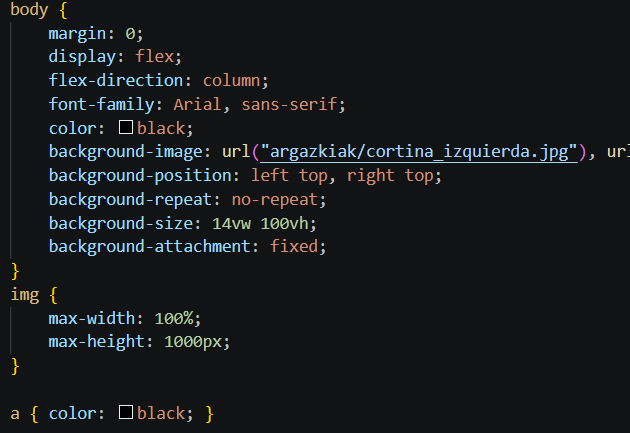
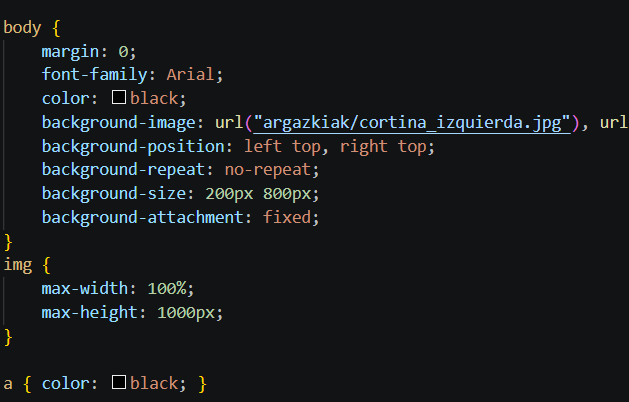
cambios

Changed region(s): [[0.0, 0.0, 1.0, 0.597], [0.0, 0.1194, 0.3625, 0.8657], [0.0, 0.9254, 0.3323, 0.9851]]

diff --git a/HTML_4_taldea/datu-base.html b/HTML_4_taldea/datu-base.html
@@ -72,8 +72,7 @@
                         <li>KAPITULUAK (ID-Kapitulua, ID-Denboraldiak, Izena)</li>
                     </ul>
 
-            <div 
-                ></div><h2> 4. normalizazioa</h2>
+                <h2> 4. normalizazioa</h2>
                 <h3>1. HARPIDETZA (ID-Harpidetza, Hasiera_data, Amaiera_data)</h3>
                 <ul>
                     <li>1FN? Bai, ez dago errepikapenik. Datuak atomikoak dira.</li>
@@ -243,7 +242,6 @@
                     </ul>
                     <li>3FN? Bai, “Guztiok” dependentzia funtzional transitiboa ez dagoelako.
                 </ul>
-            </div>
     </main>
 
     <footer class="footer">

diff --git a/HTML_4_taldea/zerbitzaria.html b/HTML_4_taldea/zerbitzaria.html
@@ -30,7 +30,7 @@
                     <li>Zerbitzariaren Izena: Artaburu</li>
                     <li>Sistema Eragilea: Windows Server (GUI)</li>
                     <li>Sare Modua: Bridged (Zubi moduan Realtek txartelera)</li>
-                    <li>IP Helbidea: 192.168.70.9 (Estatikoa)</li>
+                    <li>IP Helbidea: 192.168.4.4 (Estatikoa)</li>
                     <li>Maskara: 255.255.255.0</li>
                     <li>Web Zerbitzaria: IIS (Internet Information Services)</li>
                     <li>Egoera: martxan eta atzigarri</li>

diff --git a/HTML_4_taldea/style.css b/HTML_4_taldea/style.css
@@ -1,14 +1,12 @@
 
 body {
     margin: 0;
-    display: flex;
-    flex-direction: column;
-    font-family: Arial, sans-serif;
+    font-family: Arial;
     color: black;
     background-image: url("argazkiak/cortina_izquierda.jpg"), url("argazkiak/cortina_derecha.jpg");
     background-position: left top, right top;
     background-repeat: no-repeat;
-    background-size: 14vw 100vh;
+    background-size: 200px 800px;
     background-attachment: fixed;
 }
 img {

diff --git a/HTML_4_taldea/markatze_lengoaia.html b/HTML_4_taldea/markatze_lengoaia.html
@@ -74,7 +74,7 @@
                     </tbody>
                 </table>
 
-            <h2>3. css-en erabilitako elemntua nagusiak</h2>
+            <h2>3. css-en erabilitako elementua nagusiak</h2>
                 <table class="tabla">
                     <thead>
                         <tr>
